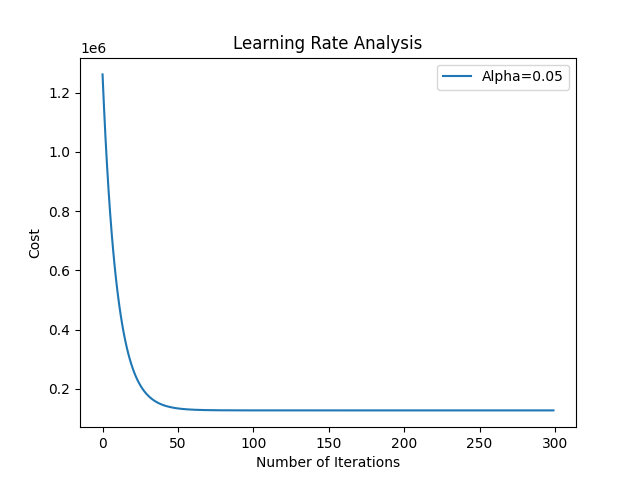
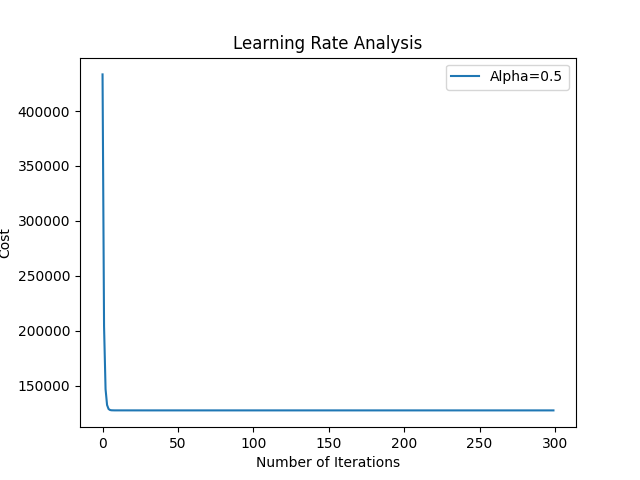
Change alphas to 0.5

diff --git a/ps2_python_Goyal_Aragya/ps2.py b/ps2_python_Goyal_Aragya/ps2.py
@@ -27,6 +27,7 @@ y = np.array([
 
 # Cost Computation Verification
 computeCost_result = computeCost(X, y, np.array([[0.5], [2], [1]]))
+print("Computed Cost J:", computeCost_result)
 
 # Gradient Descent Verification
 alpha = 0.01
@@ -123,10 +124,11 @@ print("y_test size:", y_test.shape)
 # Univariate Linear Regression using Gradient Descent
 # Using only Daily Min Temperature (4th feature)
 X_univariate = X_train[:, [0, 4]]
-alpha_univariate = 0.01
+alpha_univariate = 0.5
 iterations_univariate = 500 + (D*5)
 theta_init_univariate = np.array([[0], [0]])
 theta_univariate, cost_history_univariate = gradientDescent(X_univariate, y_train, theta_init_univariate, alpha_univariate, iterations_univariate)
+print("Theta from Gradient Descent (Univariate):\n", theta_univariate)
 # Plot the cost history for univariate regression
 plt.plot(range(iterations_univariate), cost_history_univariate, 'b-')
 plt.xlabel('Number of Iterations')
@@ -144,8 +146,8 @@ plt.legend()
 plt.savefig('./output/ps2-2-d-2.png')
 plt.show()
 
-# Multivariate Linear Regression using Gradient Descent
-alpha_multivariate = 0.01
+# Multivariate Linear Regression
+alpha_multivariate = 0.5
 iterations_multivariate = 750 + (D*5)
 theta_init_multivariate = np.zeros((X_train.shape[1], 1))
 theta_multivariate, cost_history_multivariate = gradientDescent(X_train, y_train, theta_init_multivariate, alpha_multivariate, iterations_multivariate)
@@ -178,7 +180,7 @@ mean_squared_error_univariate = 2*computeCost(X_test[:, [0, 4]], y_test, theta_u
 print("Mean Squared Error (Univariate):", mean_squared_error_univariate)
 
 # Learning rate analysis
-learning_rates = [0.001, 0.05, 0.865, 1]
+learning_rates = [0.001, 0.5, 0.865, 1]
 for lr in learning_rates:
     theta_init_lr = np.zeros((X_train.shape[1], 1))
     iterations_lr = 300
@@ -189,4 +191,5 @@ for lr in learning_rates:
     plt.title('Learning Rate Analysis')
     plt.legend()
     plt.savefig(f'./output/ps2-2-g-{learning_rates.index(lr)}.png')
+    plt.show()
     plt.close()
